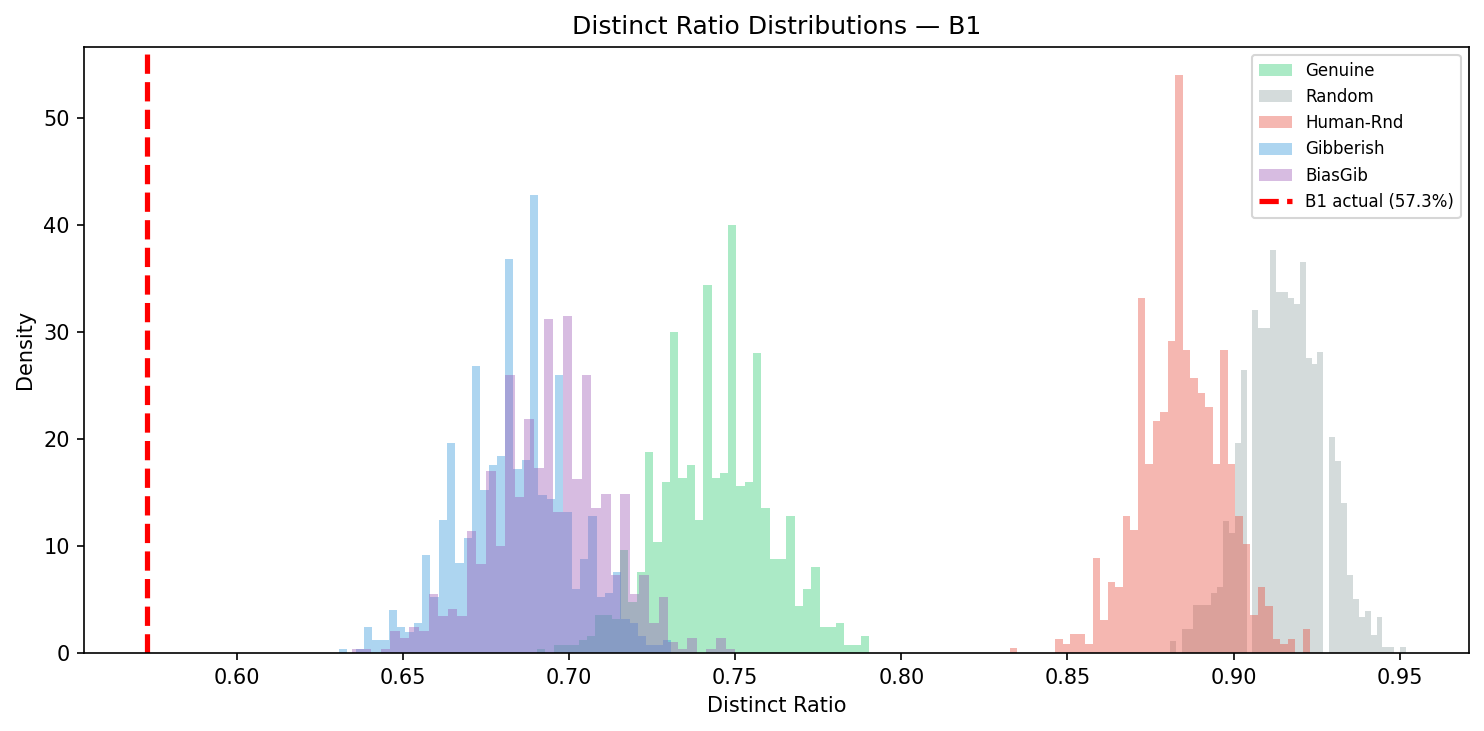
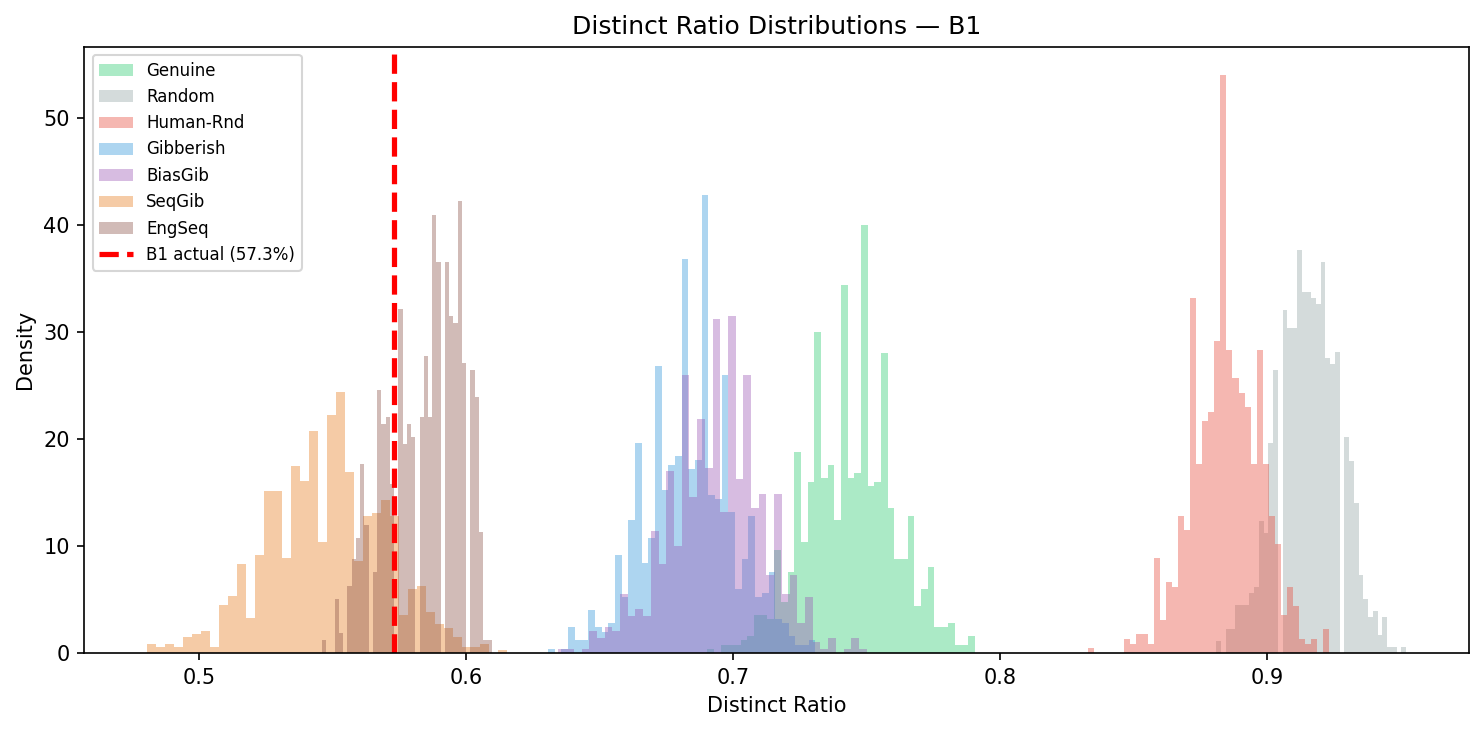
Phase 8: add English scanning control, scan-fit likelihood ratio and page census
Method 7 (english_seq) encodes B2's plaintext by forward scanning, the
genuine-message twin of sequential gibberish, from its own generator so
the six original populations reproduce exactly at the same seed.

Phase 8d-2 fits gibberish and two English sources (B2's plaintext, the
DoI text) to each cipher over one reset grid with that cipher's key slice
and encoder. It reports a marginal likelihood ratio under a uniform reset
prior (interval weights, equal weights as sensitivity), the profile ratio
as a diagnostic, and a boundary check. B3's grid gains cells below 0.01,
where English fits best. At 1,000 sims, gibberish over English is +0.87
to +2.74 log10 for B1 and +1.75 to +1.96 for B3, boundary clean.

The boundary test gains a page-usage census for all three ciphers: every
cipher front-loads, and B2 reaches page 4 only through its x override.

Plots carry the seventh method.

diff --git a/phase8_hoax_construction.py b/phase8_hoax_construction.py
@@ -1,13 +1,13 @@
 """
 ---
-version: 0.5.0
+version: 0.6.0
 created: 2026-02-25
-updated: 2026-02-25
+updated: 2026-11-07
 ---
 
 phase8_hoax_construction.py — Hoax construction method analysis.
 
-Tests HOW a hoax would have been built by generating six construction
+Tests HOW a hoax would have been built by generating seven construction
 methods and comparing their statistical fingerprints to B1/B3:
 
   1. Genuine: English-frequency plaintext → DoI encode
@@ -17,6 +17,10 @@ methods and comparing their statistical fingerprints to B1/B3:
   4b. Biased-gibberish: English-vowel-frequency letters → DoI encode
   5. Sequential-gibberish: random letters → DoI encode with nearest-forward scan
   6. Page-constrained: sequential within physical pages, periodic page flips
+  7. English-sequential: real English (B2's plaintext) → DoI encode with
+     nearest-forward scan. The control: a genuine message encoded the way
+     the hoax model encodes gibberish. The scan comparison (8d-2) fits it
+     against both ciphers over the same reset grid as gibberish.
 
 Key prediction: B1's distinct ratio (57.3%) is too high for genuine (~24%)
 but too low for uniform random (~92%). Gibberish encoded with DoI should
@@ -40,14 +44,17 @@ from pathlib import Path
 import numpy as np
 from scipy import stats as sp_stats
 
+from scipy.special import logsumexp
+
 from beale import (
-    B1, B2, B3, BEALE_DOI, ENGLISH_FREQ,
+    B1, B2, B3, BEALE_DOI, B2_PLAINTEXT, ENGLISH_FREQ, SPECIAL_DECODE,
     benford_test, last_digit_test, distinct_ratio,
     decode_book_cipher, encode_book_cipher, encode_sequential_book_cipher,
     encode_page_constrained_book_cipher, build_letter_index,
     bigram_score, index_of_coincidence,
     gillogly_strings, gillogly_quality,
     generate_fake_cipher, generate_random_numbers, generate_human_random,
+    text_to_alpha,
 )
 
 
@@ -67,6 +74,16 @@ for _c in string.ascii_lowercase:
         _BIASED_GIBBERISH_FREQ[_c] = ENGLISH_FREQ[_c]
     else:
         _BIASED_GIBBERISH_FREQ[_c] = _consonant_each
+
+# Real English for the scanning control. Filtered to letters with a DoI
+# homophone: the full DoI and its first 975 words both lack exactly x, y and z,
+# so one filter serves both key slices. B2's plaintext is non-key English (the
+# genuine Beale message); the DoI text is the key's own prose. Windows overlap
+# heavily (B2 has 750 offsets), so their spread is conditional on these two
+# texts, not a sample of historical messages.
+_DOI_LETTERS = {c for c, positions in build_letter_index(BEALE_DOI).items() if positions}
+_ENGLISH_B2 = "".join(c for c in B2_PLAINTEXT if c in _DOI_LETTERS)
+_ENGLISH_DOI = "".join(c for c in text_to_alpha(" ".join(BEALE_DOI)) if c in _DOI_LETTERS)
 
 
 def generate_gibberish_cipher(
@@ -118,17 +135,45 @@ def generate_sequential_gibberish_cipher(
                                          reset_prob=reset_prob, rng=rng)
 
 
+def _english_window(source: str, n: int, rng: np.random.Generator) -> str:
+    """n letters of source starting at a uniform offset, wrapping at the end."""
+    start = int(rng.integers(0, len(source)))
+    reps = (start + n) // len(source) + 1
+    return (source * reps)[start:start + n]
+
+
+def generate_sequential_english_cipher(
+    count: int,
+    key_words: list[str] | tuple[str, ...],
+    rng: np.random.Generator,
+    source: str = _ENGLISH_B2,
+    reset_prob: float = 0.0,
+) -> list[int]:
+    """Encode a window of real English with nearest-forward homophone selection.
+
+    The scanning control: identical to generate_sequential_gibberish_cipher
+    except that the plaintext is English rather than uniform random letters.
+    """
+    plaintext = _english_window(source, count, rng)
+    return encode_sequential_book_cipher(plaintext, key_words,
+                                         reset_prob=reset_prob, rng=rng)
+
+
 def generate_populations(
     n_sims: int = 1000,
     seed: int = 42,
 ) -> dict:
     """
-    Generate six populations for B1-like and B3-like cipher parameters.
+    Generate seven populations for B1-like and B3-like cipher parameters.
+
+    english_seq draws from its own generator so the six original populations
+    reproduce exactly at the same seed.
 
     Returns dict keyed by "{method}_{length}" with lists of cipher number sequences.
     Also returns the actual B1/B3 for convenience.
     """
     rng = np.random.default_rng(seed)
+    rng_english = np.random.default_rng([seed, 7])
 
     # Cipher parameters
     configs = {
@@ -171,6 +216,10 @@ def generate_populations(
                 elif method == "seq_gibberish":
                     cipher = generate_sequential_gibberish_cipher(
                         count, BEALE_DOI, rng
+                    )
+                elif method == "english_seq":
+                    cipher = generate_sequential_english_cipher(
+                        count, BEALE_DOI, rng_english
                     )
 
                 populations[pop_key].append(cipher)
@@ -247,7 +296,7 @@ def compute_extended_stats(
 # ============================================================================
 
 METHODS = ["genuine", "random", "human_random", "gibberish", "biased_gibberish",
-           "seq_gibberish"]
+           "seq_gibberish", "english_seq"]
 METHOD_LABELS = {
     "genuine": "Genuine",
     "random": "Random",
@@ -255,6 +304,7 @@ METHOD_LABELS = {
     "gibberish": "Gibberish",
     "biased_gibberish": "BiasGib",
     "seq_gibberish": "SeqGib",
+    "english_seq": "EngSeq",
 }
 
 METRICS = [
@@ -606,6 +656,7 @@ def plot_distinct_ratio_histograms(
         "gibberish": "#3498db",
         "biased_gibberish": "#9b59b6",
         "seq_gibberish": "#e67e22",
+        "english_seq": "#8c564b",
     }
 
     for length_key, cipher_name, actual_dr, marker_color in [
@@ -731,6 +782,10 @@ def print_classification_matrix(
             print("    the hoaxer deliberately planted alphabetical runs.")
         elif b1_winner[0] == "random":
             print("  → Pure uniform random. Unlikely given non-random features.")
+        elif b1_winner[0] == "english_seq":
+            print("  → Consistent with a genuine English message scanned forward")
+            print("    through the DoI. Only the DoI-decode bigram score separates")
+            print("    it from gibberish, and only for English encoded with the DoI.")
         elif b1_winner[0] == "genuine":
             print("  → Consistent with genuine encoding. But previous phases")
             print("    showed no key text produces English output.")
@@ -1006,6 +1061,140 @@ def run_page_model(
 
 
 # ============================================================================
+# 8d-2. SCAN-FIT COMPARISON: GIBBERISH VS ENGLISH (Phase 8d-2)
+# ============================================================================
+
+# Reset grids. B1 keeps the legacy cells. B3 adds cells below 0.01, where
+# English scanning fits best. Each grid's support is [first, last] cell.
+SCAN_GRIDS: dict[str, list[float]] = {
+    "B1": [0.50, 0.55, 0.60, 0.65, 0.70, 0.75, 0.80],
+    "B3": [0.0, 0.003, 0.005, 0.01, 0.02, 0.03, 0.05, 0.08, 0.10,
+           0.15, 0.20, 0.25, 0.30],
+}
+
+
+def _interval_weights(grid: list[float]) -> np.ndarray:
+    """Cell weights for a continuous uniform prior on [grid[0], grid[-1]].
+
+    Each cell covers the interval between the midpoints to its neighbours,
+    clipped to the support, so a densely sampled region gets no extra mass.
+    """
+    g = np.asarray(grid, dtype=float)
+    edges = np.concatenate([[g[0]], (g[:-1] + g[1:]) / 2, [g[-1]]])
+    widths = np.diff(edges)
+    return widths / widths.sum()
+
+
+def _scan_cell(
+    make_plaintext, encode, reset: float, n_sims: int,
+    rng: np.random.Generator, observed: np.ndarray,
+) -> dict:
+    """Simulate one (model, reset) cell and score the observed (SC, DR) pair.
+
+    The log-likelihood is synthetic: a bivariate normal (with covariance)
+    fitted to the simulated (SC, DR) pairs, evaluated at the observed pair.
+    """
+    sims = np.empty((n_sims, 2))
+    for i in range(n_sims):
+        cipher = encode(make_plaintext(rng), reset, rng)
+        sims[i] = (serial_correlation(cipher), len(set(cipher)) / len(cipher))
+    mean, std = sims.mean(axis=0), sims.std(axis=0)
+    density = sp_stats.multivariate_normal(mean, np.cov(sims, rowvar=False))
+    return {
+        "reset": reset, "sc": mean[0], "dr": mean[1],
+        "sc_z": abs(observed[0] - mean[0]) / std[0],
+        "dr_z": abs(observed[1] - mean[1]) / std[1],
+        "log10_l": float(density.logpdf(observed)) / np.log(10),
+    }
+
+
+def _print_scan_model(label: str, cells: list[dict], grid: list[float]) -> dict:
+    """Print one model's grid and return its marginal and profile log10 likelihoods."""
+    print(f"\n  {label}")
+    print(f"  {'reset':>7} {'SC':>7} {'DR':>7} {'SC_z':>6} {'DR_z':>6} {'log10 L':>8}")
+    for c in cells:
+        print(f"  {c['reset']:>7.3f} {c['sc']:>7.3f} {c['dr']:>7.3f}"
+              f" {c['sc_z']:>6.1f} {c['dr_z']:>6.1f} {c['log10_l']:>8.2f}")
+    logs = np.array([c["log10_l"] for c in cells]) * np.log(10)
+    best = int(np.argmax(logs))
+    on_edge = (best == len(grid) - 1) or (best == 0 and grid[0] != 0.0)
+    return {
+        "interval": float(logsumexp(logs, b=_interval_weights(grid))) / np.log(10),
+        "equal": float(logsumexp(logs, b=np.full(len(grid), 1 / len(grid)))) / np.log(10),
+        "profile": float(logs[best]) / np.log(10),
+        "best_reset": grid[best], "on_edge": on_edge,
+    }
+
+
+def _scan_comparison_for(
+    name: str, cipher: tuple[int, ...], key_words, encode, n_sims: int, seed: int,
+) -> None:
+    """Fit gibberish and two English sources to one cipher over its reset grid."""
+    grid, n = SCAN_GRIDS[name], len(cipher)
+    observed = np.array([serial_correlation(cipher), len(set(cipher)) / n])
+    avail = [c for c in string.ascii_lowercase if build_letter_index(key_words).get(c)]
+    models = [
+        ("Gibberish (uniform letters)", lambda r: "".join(r.choice(avail, size=n))),
+        ("English, B2 plaintext", lambda r: _english_window(_ENGLISH_B2, n, r)),
+        ("English, DoI text", lambda r: _english_window(_ENGLISH_DOI, n, r)),
+    ]
+    print(f"\n  --- {name}: observed SC={observed[0]:.3f}, DR={observed[1]:.3f} ---")
+    summary = {}
+    for k, (label, make_plaintext) in enumerate(models):
+        rng = np.random.default_rng([seed, 8, int(name[1]), k])
+        cells = [_scan_cell(make_plaintext, encode, p, n_sims, rng, observed) for p in grid]
+        summary[label] = _print_scan_model(label, cells, grid)
+
+    print(f"\n  {'Model':<28} {'best reset':>10} {'profile':>8} {'interval':>9} {'equal':>7}"
+          f"   (log10 L)")
+    for label, s in summary.items():
+        print(f"  {label:<28} {s['best_reset']:>10.3f} {s['profile']:>8.2f}"
+              f" {s['interval']:>9.2f} {s['equal']:>7.2f}")
+    gib = summary[models[0][0]]
+    for label, _ in models[1:]:
+        eng = summary[label]
+        print(f"  log10 ratio, gibberish over {label}: "
+              f"marginal (interval weights) {gib['interval'] - eng['interval']:+.2f}, "
+              f"equal weights {gib['equal'] - eng['equal']:+.2f}, "
+              f"profile {gib['profile'] - eng['profile']:+.2f}")
+    edge = [label for label, s in summary.items() if s["on_edge"]]
+    print(f"  Boundary check: {'WARNING, best cell on a grid edge for ' + ', '.join(edge) if edge else 'clean'}")
+
+
+def run_scan_comparison(n_sims: int = 500, seed: int = 42) -> None:
+    """
+    Phase 8d-2: does real English scanned forward fit B1/B3 as well as gibberish?
+
+    Three models per cipher, each from its own generator, over one reset grid,
+    with the same key slice and encoder as that cipher's page model. Reports a
+    marginal likelihood ratio under a uniform reset prior on the grid's support
+    (interval weights; equal-cell weights as sensitivity) and the profile ratio
+    as a diagnostic.
+    """
+    print(f"\n{'='*80}")
+    print("PHASE 8d-2: SCAN-FIT COMPARISON, GIBBERISH VS ENGLISH")
+    print(f"{'='*80}")
+    print("  Synthetic likelihood: bivariate normal fitted to simulated (SC, DR).")
+    print(f"  Uniform reset prior on B1 {SCAN_GRIDS['B1'][0]}-{SCAN_GRIDS['B1'][-1]},"
+          f" B3 {SCAN_GRIDS['B3'][0]}-{SCAN_GRIDS['B3'][-1]}. Conditional on the two")
+    print("  English texts and the page geometry, and on the DoI standing in for")
+    print("  whatever key a genuine encoder would have scanned.")
+
+    key_975 = BEALE_DOI[:975]
+    _scan_comparison_for(
+        "B1", B1, BEALE_DOI,
+        lambda pt, p, r: encode_sequential_book_cipher(pt, BEALE_DOI, reset_prob=p, rng=r),
+        n_sims, seed,
+    )
+    _scan_comparison_for(
+        "B3", B3, key_975,
+        lambda pt, p, r: encode_page_constrained_book_cipher(
+            pt, key_975, words_per_page=325, reset_prob=p, rng=r),
+        n_sims, seed,
+    )
+
+
+# ============================================================================
 # 9. PAGE BOUNDARY SIGNIFICANCE TEST (Phase 8e)
 # ============================================================================
 
@@ -1054,6 +1243,24 @@ def run_page_boundary_test(
 
     b1_max_all = max(B1)
     print(f"  B1 max value overall: {b1_max_all}")
+
+    # --- 1a-2: page-usage census, all three ciphers ---
+    print(f"\n  --- Page-Usage Census ({wpp} words/page) ---")
+    bands = [(1, 325), (326, 650), (651, 975), (976, 1300), (1301, doi_len)]
+    labels = [f"{lo}-{hi}" for lo, hi in bands] + [f">{doi_len}"]
+    print(f"  {'':>4}" + "".join(f"{lab:>11}" for lab in labels) + f"{'>975 share':>12}")
+    for name, cipher in [("B1", B1), ("B2", B2), ("B3", B3)]:
+        counts = [sum(lo <= n <= hi for n in cipher) for lo, hi in bands]
+        counts.append(sum(n > doi_len for n in cipher))
+        in_range = [n for n in cipher if n <= doi_len]
+        share = sum(n > 975 for n in in_range) / len(in_range)
+        print(f"  {name:>4}" + "".join(f"{c:>11}" for c in counts) + f"{share:>12.1%}")
+    b2_unforced = [n for n in B2 if n not in SPECIAL_DECODE]
+    print(f"  B2 max excluding override positions {sorted(SPECIAL_DECODE)}: "
+          f"{max(b2_unforced)}")
+    print("  All three front-load. The genuine B2 reaches page 4 only through")
+    print("  its fixed x override (1005), so stopping short of the end is not")
+    print("  by itself evidence of fabrication.")
 
     # --- 1b: B3 page boundary probability ---
     print(f"\n  --- B3 Page Boundary Probability ---")
@@ -1748,6 +1955,7 @@ def main() -> None:
 
     if args.page_model or args.all:
         run_page_model(n_sims=args.n_sims, seed=args.seed)
+        run_scan_comparison(n_sims=args.n_sims, seed=args.seed)
 
     if args.boundary_test or args.all:
         run_page_boundary_test(n_sims=args.n_sims, seed=args.seed)
